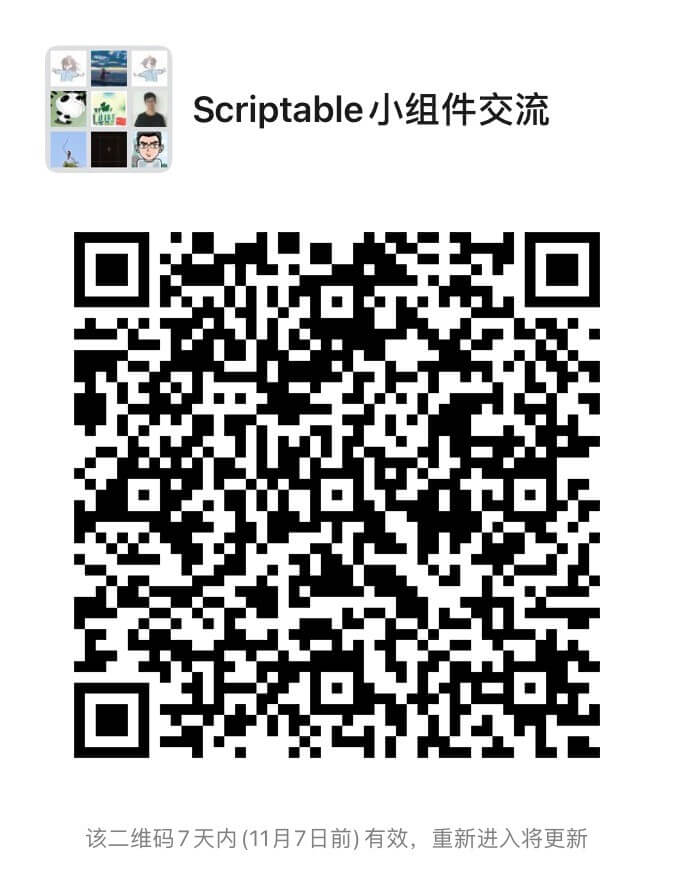
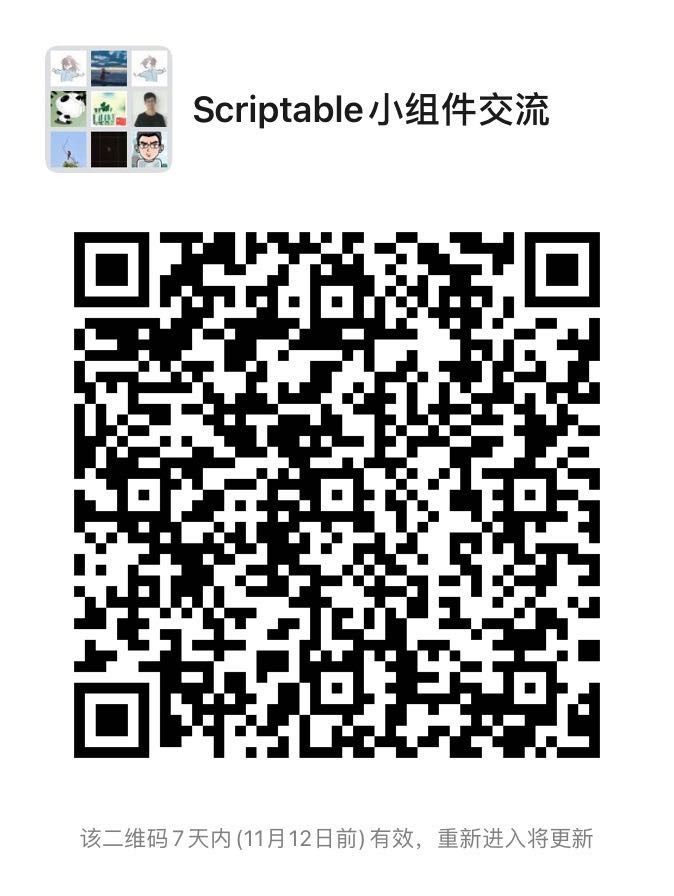
update qrcode

diff --git a/2020/10/24/README.md b/2020/10/24/README.md
@@ -140,6 +140,10 @@ if (config.runsInWidget) {
 
 如果你对使用 **Scriptable** 开发小组件很有兴趣，也欢迎大家进[**Scriptable小组件交流群**](./images/wechat-group.jpg)进行交流讨论。
 
+![Scriptable小组件交流群](./images/wechat-group.jpg)
+
 文章到这里就结束了，如果你有什么意见和建议欢迎给我[留言](https://github.com/dreamapplehappy/blog/issues/16)。你还可以关注我的公众号[**关山不难越**](../../../resource/images/official-account.png)，可以及时获取最新好玩有趣文章的更新。
+
+![关山不难越](../../../resource/images/official-account.png)
 
 注：“今天吃点啥”小组件的图标使用的是[https://undraw.co/](https://undraw.co/)网站上的，相关食物的图片来自[https://unsplash.com/](https://unsplash.com/)，每张图片来自哪个创作者在代码的注释中有说明。
